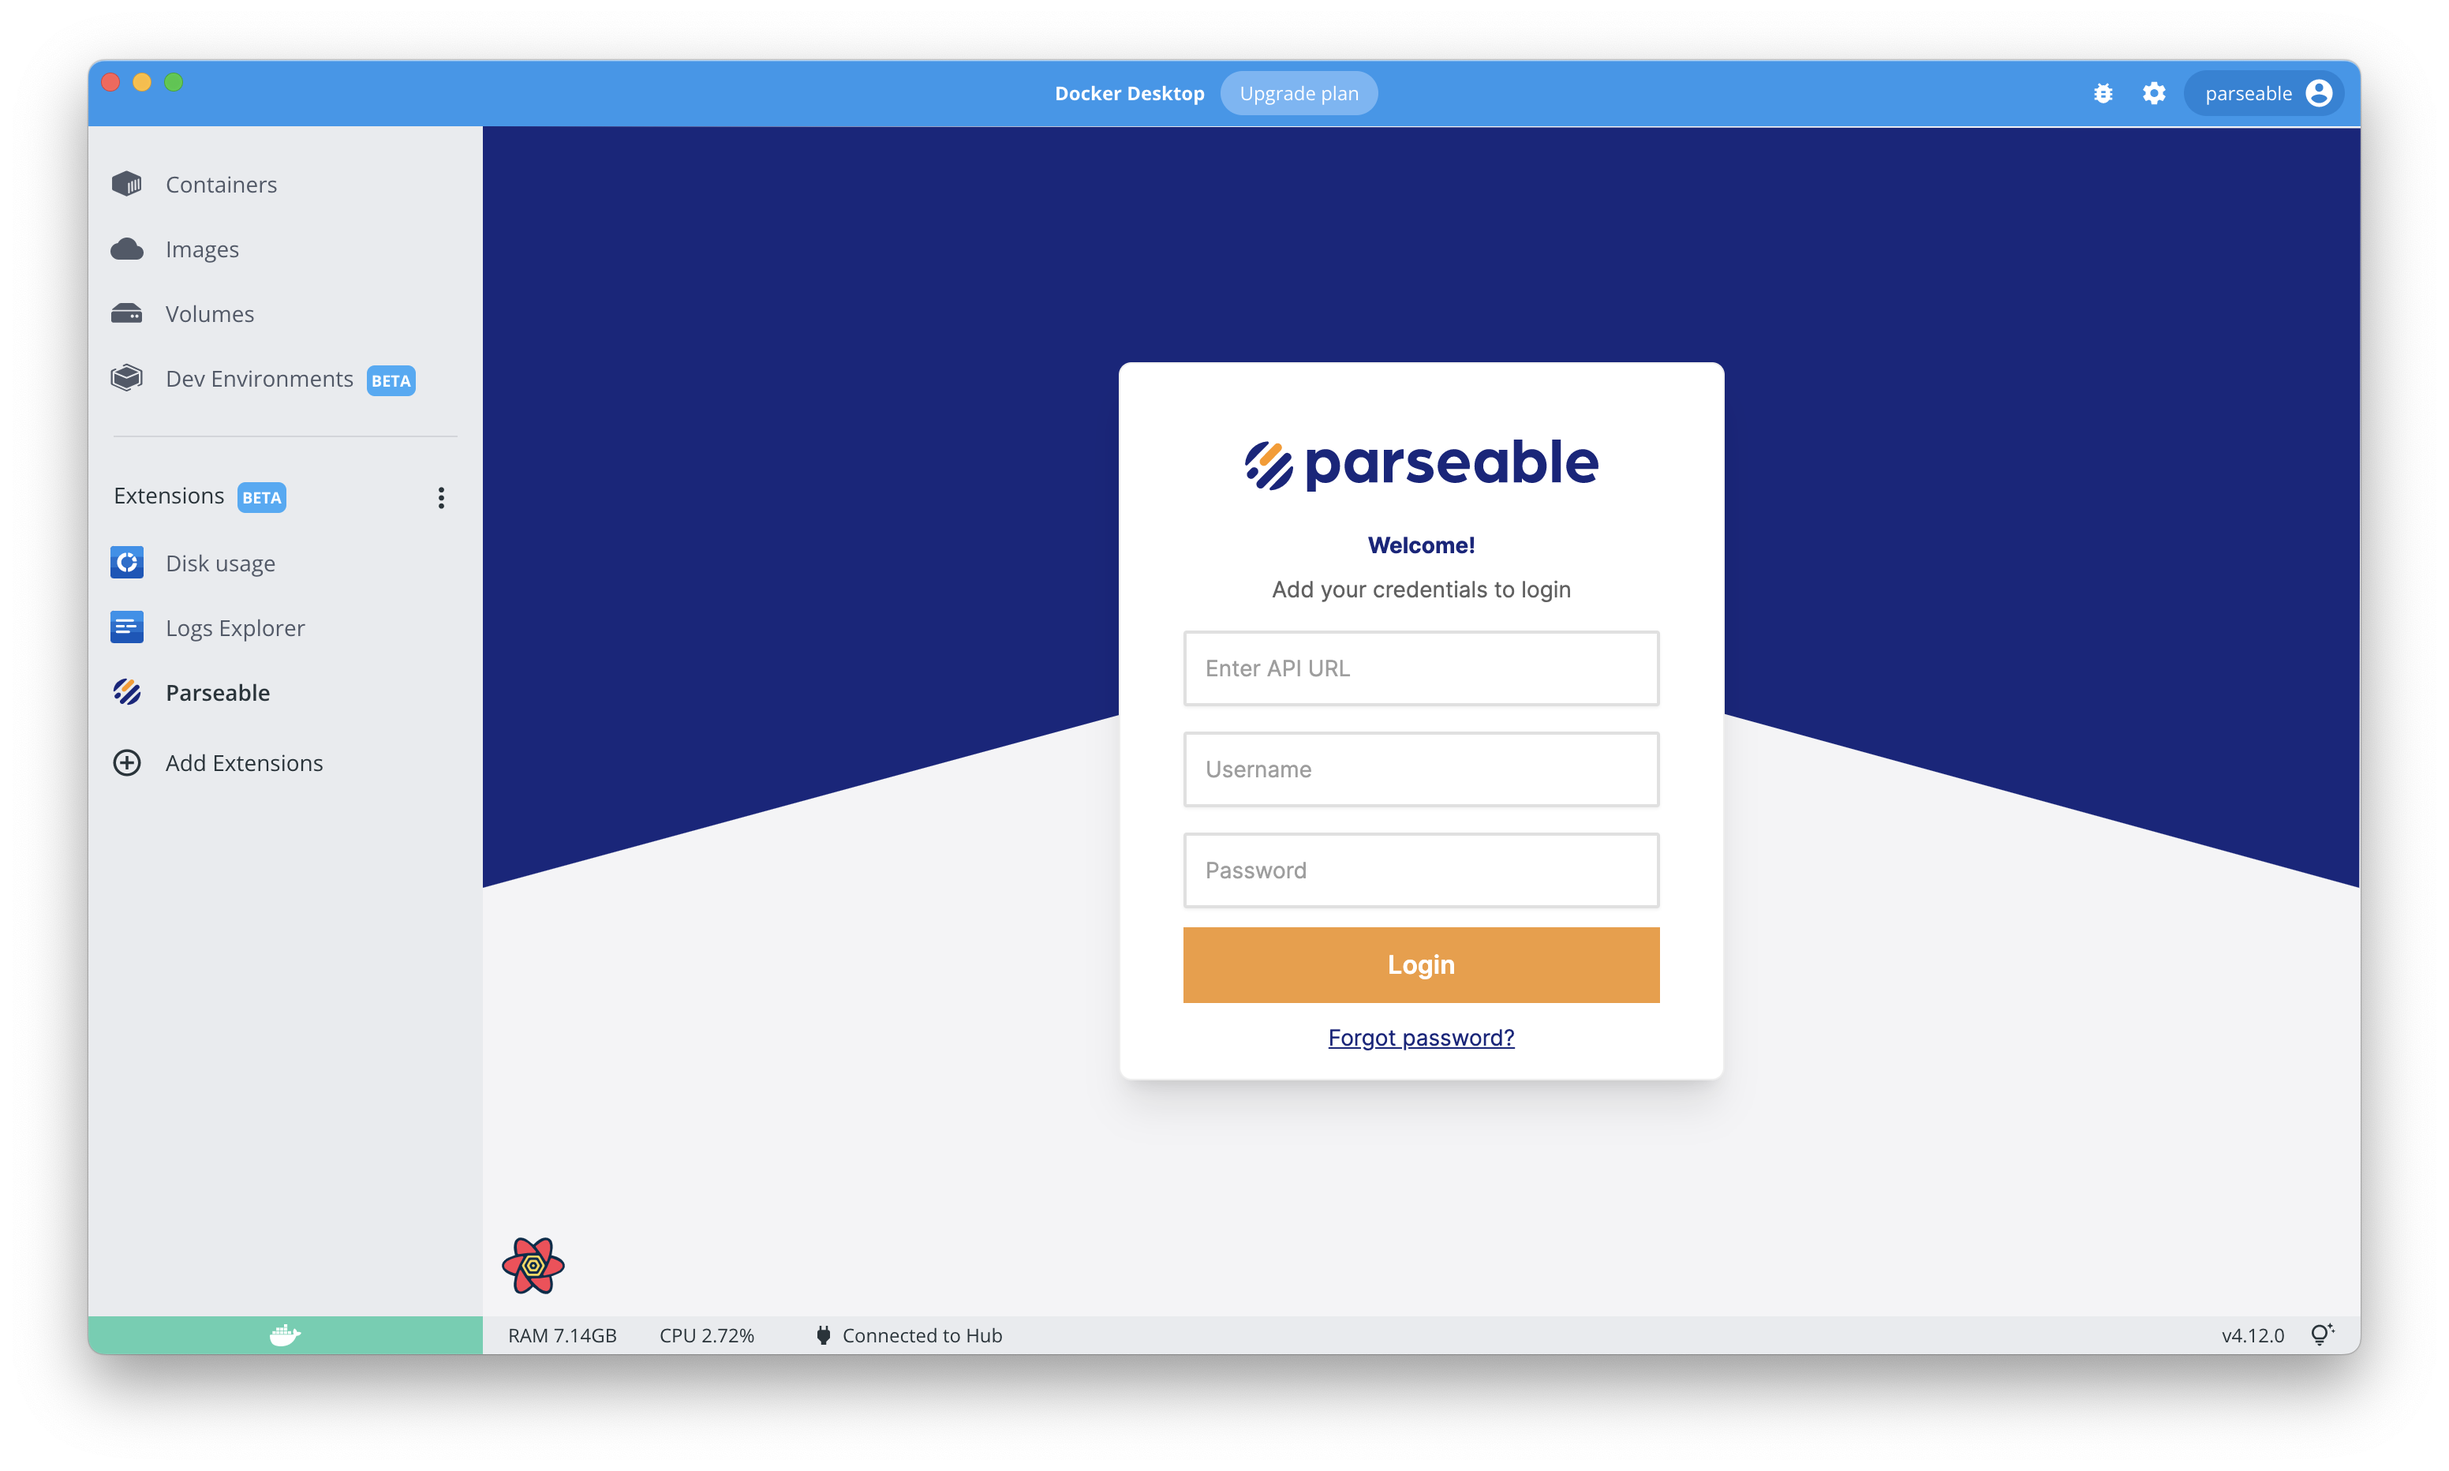
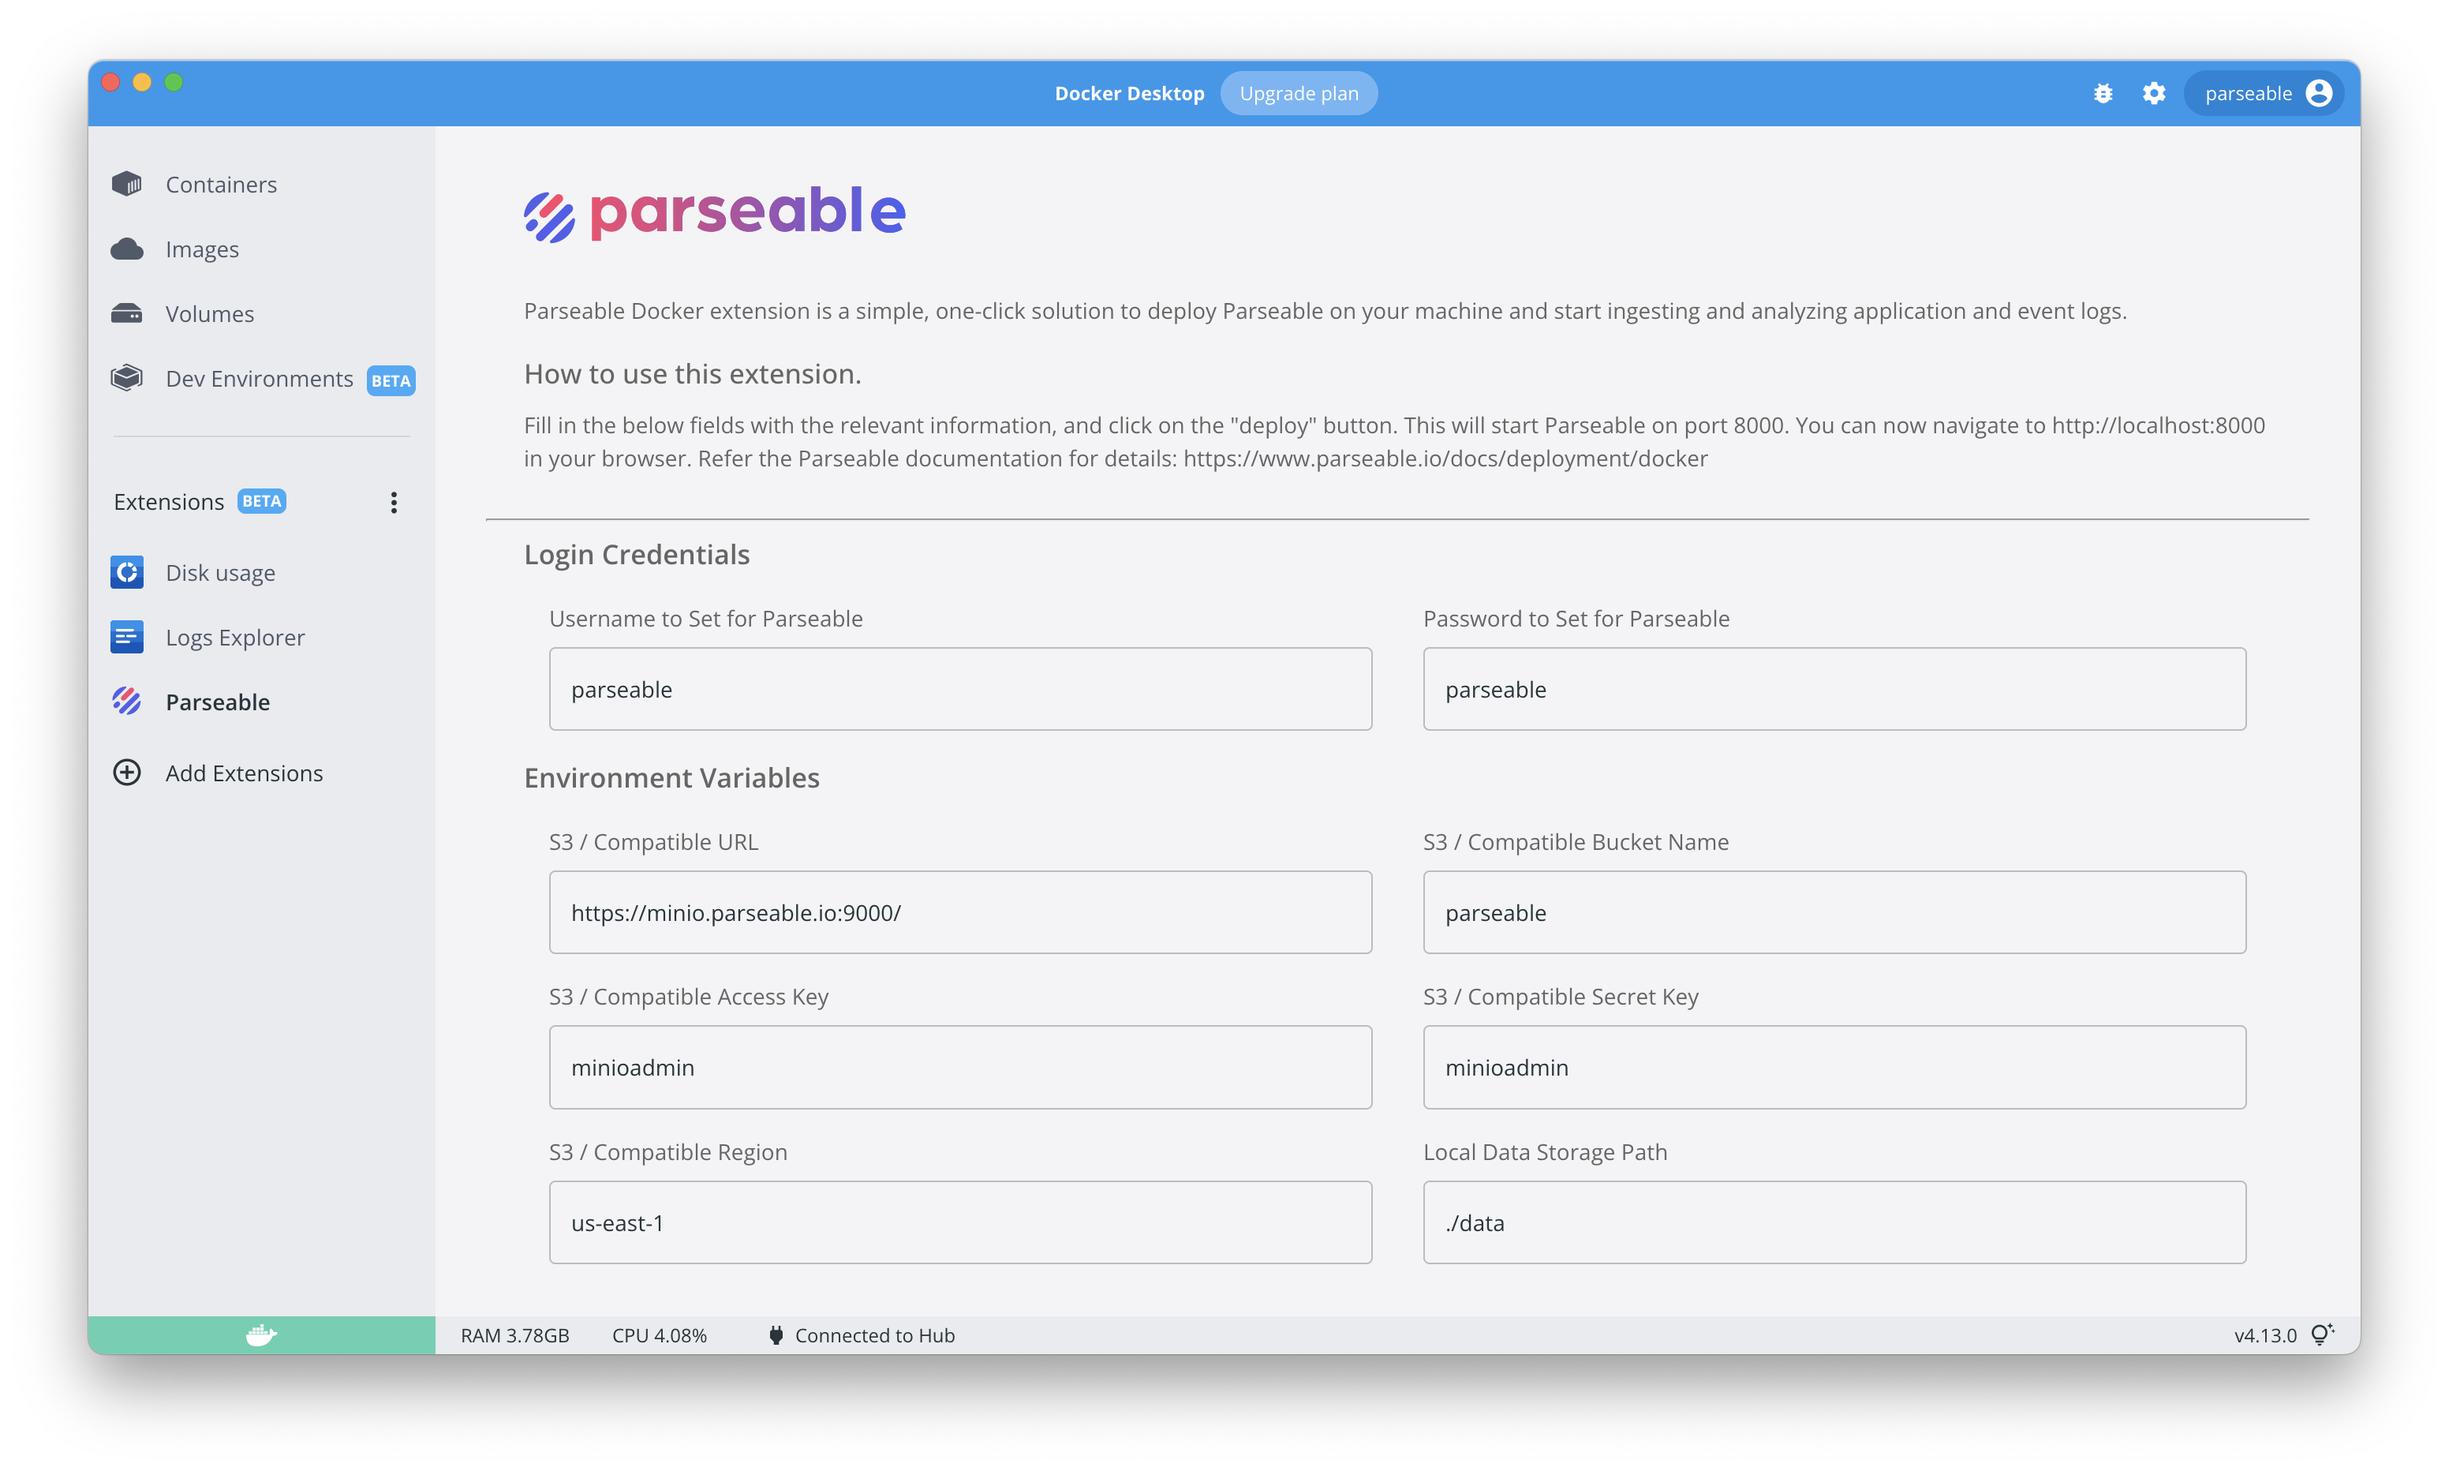
Fix UI and cleanup (#6)

diff --git a/ui/src/components/HeroSection/index.js b/ui/src/components/HeroSection/index.js
@@ -5,19 +5,15 @@ function HeroSection() {
   return (
     <Box>
       <Container maxWidth="lg">
-        <Box display={"flex"} justifyContent="space-between" container spacing={2}>
           <Box flex={11 / 12} item xs={8}>
             <Box>
-              {/* <Box>
+              <Box>
                 <img
                   width="250px"
                   src={"https://www.parseable.io/img/Logo%20parseable.svg"}
                   alt={""}
                 />
-              </Box> */}
-              <Typography variant="h4" color={"#666666"} fontWeight="bold">
-                Parseable Docker Extension
-              </Typography>
+              </Box>
               <Typography mt={2} variant="body1" color={"#666666"}>
                 Parseable Docker extension is a simple, one-click solution to
                 deploy Parseable on your machine and start ingesting and analyzing
@@ -34,36 +30,9 @@ function HeroSection() {
               </Typography>
             </Box>
           </Box>
-          <Box  item xs={4}>
-            <Box>
-              <Box>
-                <img
-                  width="100%"
-                  src={"https://www.parseable.io/img/feature-illustration.svg"}
-                  alt={""}
-                />
-              </Box>
-            </Box>
-          </Box>
-        </Box>
-        {/* <Box
-          mt={5}
-          width={"full"}
-          height={64}
-          display="flex"
-          justifyContent="center"
-          alignItems="center"
-          bgcolor="#04DF00"
-          color="white"
-          borderRadius={2}
-        >
-          <Typography variant="h6">
-            Note: If you don’t fill these fields then also you can run parseable
-            container. it will take default values mentioned in the fields
-            itself.
-          </Typography>
-        </Box> */}
       </Container>
+      <br />
+      <hr />
     </Box>
   );
 }

diff --git a/ui/src/components/Form/index.js b/ui/src/components/Form/index.js
@@ -7,6 +7,7 @@ import {
   Typography,
 } from "@mui/material";
 import React, { useState } from "react";
+import { createDockerDesktopClient } from '@docker/extension-api-client';
 
 const Form = () => {
   const [username, setUsername] = useState("parseable");
@@ -19,6 +20,7 @@ const Form = () => {
   const [bucketName, setBucketName] = useState("parseable");
   const [region, setRegion] = useState("us-east-1");
   const [localStorage, setLocalStorage] = useState("./data");
+  const ddClient = createDockerDesktopClient();
 
   const resetHandler = () => {
     setUsername("parseable");
@@ -28,10 +30,12 @@ const Form = () => {
     setSecretKey("minioadmin");
     setBucketName("parseable");
     setRegion("us-east-1");
-    setLocalStorage("./data")
+    setLocalStorage("./data");
   };
 
-  const saveHandler = () => {};
+  async function runDockerParseable() {
+    const result = await ddClient.docker.cli.exec('run parseable/parseable:v0.0.5 parseable server --demo',[]);
+  }
 
   return (
     <Container maxWidth="lg">
@@ -141,7 +145,7 @@ const Form = () => {
             <Button onClick={() => resetHandler()} variant="outlined">
               Reset
             </Button>
-            <Button onClick={() => saveHandler()} variant="contained">
+            <Button onClick={() => runDockerParseable()} variant="contained">
               Deploy
             </Button>
           </Stack>

diff --git a/README.md b/README.md
@@ -21,6 +21,7 @@ git clone https://github.com/parseablehq/parseable-docker-extension
 
 ```
 cd ui
+npm install
 npm run build
 cd ..
 make build-extension
